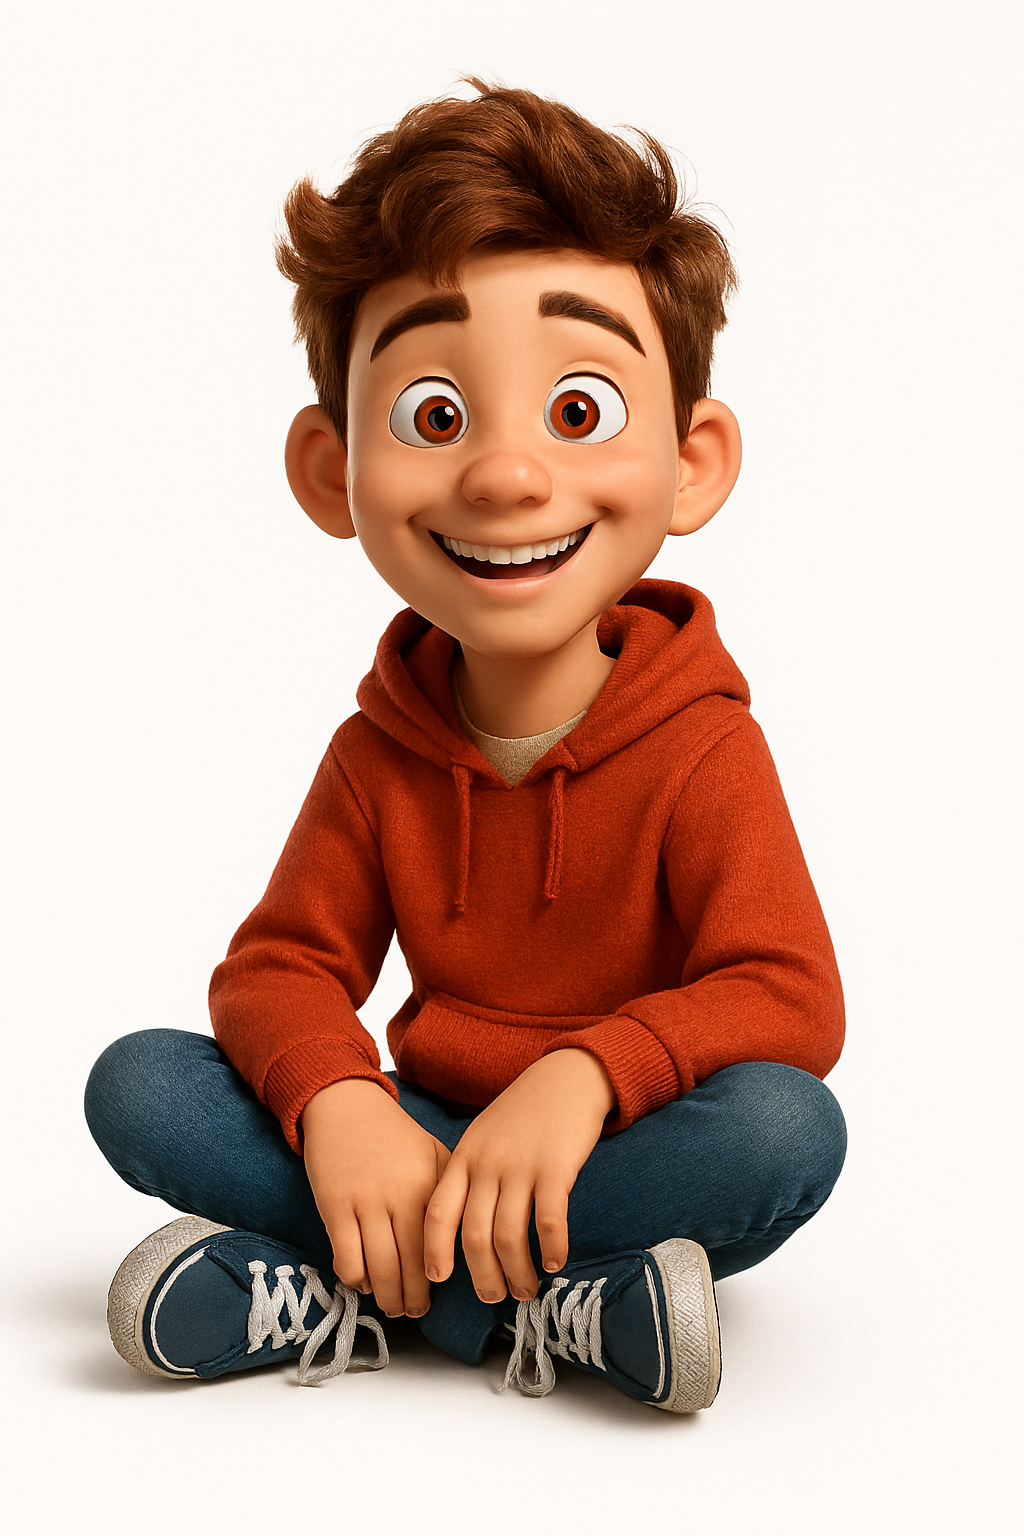
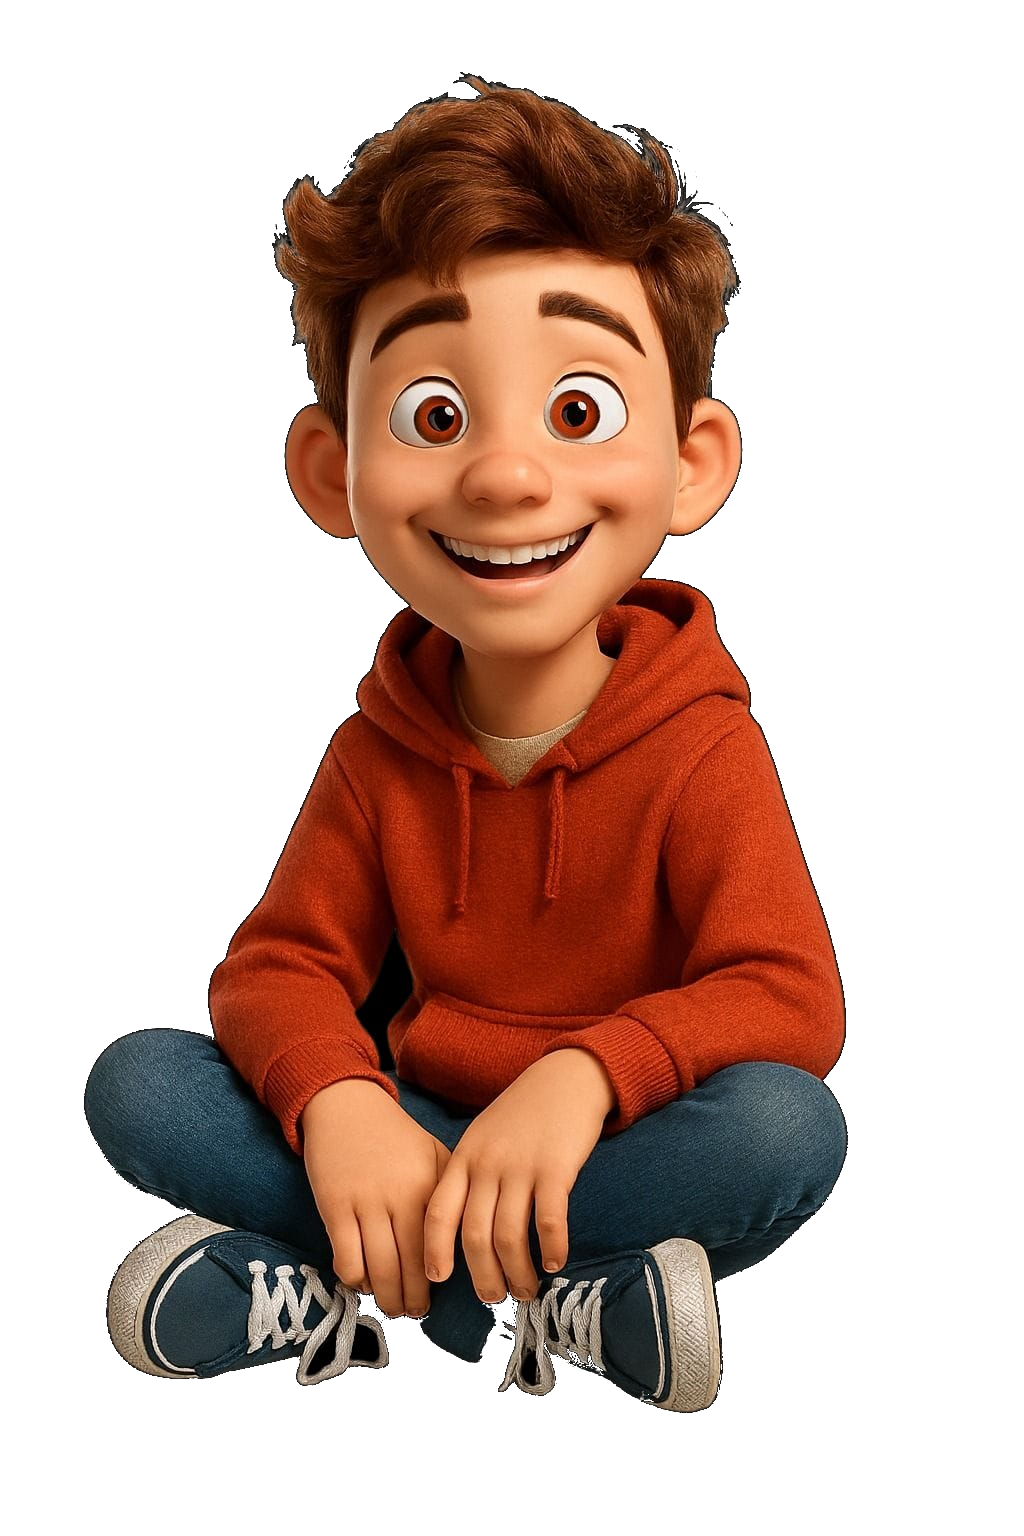
Add smiling boy character

diff --git a/app/components/FloatingCharacter.jsx b/app/components/FloatingCharacter.jsx
@@ -31,25 +31,15 @@ export default function FloatingCharacter() {
       initial={{ opacity: 0, y: 20 }}
       animate={controls}
       className="fixed bottom-8 right-8 z-50 hidden lg:block"
-      style={{
-        // Transparent container
-        backgroundColor: 'transparent',
-        // No background color affects children
-        isolation: 'isolate'
-      }}
+       
     >
       <div className="relative w-32 h-32">
         <Image
-          src="/boy1.jpeg"
+          src="/boy.png"
           alt="Friendly character"
           fill
           className="object-contain"
-          style={{
-            // Ensure no background artifacts
-            mixBlendMode: 'normal',
-            // Prevent any div background bleeding
-            pointerEvents: 'none' // Allows clicks through transparent areas
-          }}
+          
           priority
         />
       </div>

diff --git a/app/layout.js b/app/layout.js
@@ -1,6 +1,6 @@
 import { Geist, Geist_Mono } from "next/font/google";
 import "./globals.css";
-// import FloatingCharacter from "./components/FloatingCharacter";
+import FloatingCharacter from "./components/FloatingCharacter";
 const geistSans = Geist({
   variable: "--font-geist-sans",
   subsets: ["latin"],
@@ -23,7 +23,7 @@ export default function RootLayout({ children }) {
         className={`${geistSans.variable} ${geistMono.variable} antialiased bg-gray-900 text-gray-100`}
       >
         {children}
-        {/* <FloatingCharacter /> */}
+        <FloatingCharacter />
       </body>
     </html>
   );
